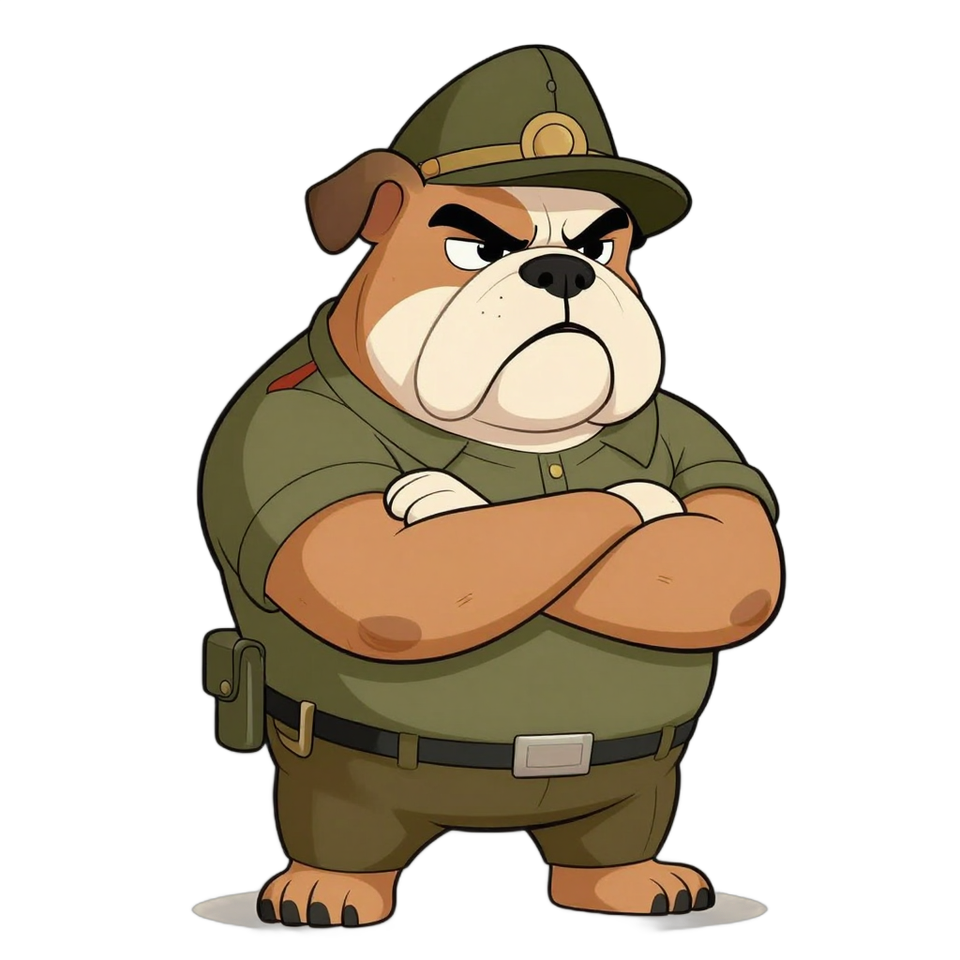
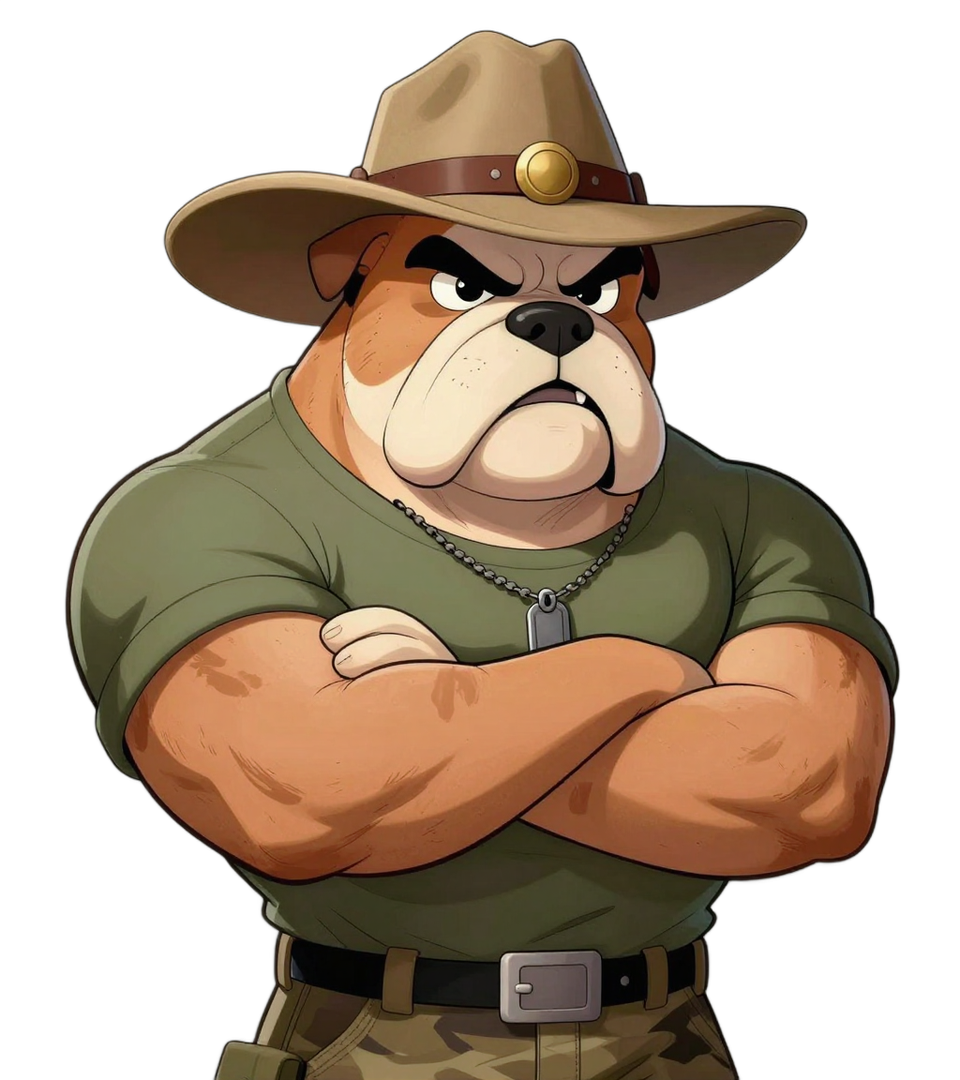
feat: final Tank, seven drills and a fuller scoreboard
Tank is now the detailed render: campaign hat, dog tags, cel shading.
The favicon, docs logo and social card are built from it by
scripts/make-assets.py. The home page and docs list merging and
issues-and-roadmap as built, and the scoreboard shows each skill's
latest eval run. Also fixes the docs home title reading "GitHard docs |
GitHard docs", stops grid children widening the page on phones, and
keeps the Docs link in the mobile nav.

diff --git a/www/index.html b/www/index.html
@@ -22,8 +22,8 @@
       <a href="#montage">The montage</a>
       <a href="#scoreboard">Scoreboard</a>
       <a href="#drills">Drills</a>
-      <a href="https://docs.githard.dev">Docs</a>
-      <a class="gh" href="https://github.com/getgithard/githard">GitHub</a>
+      <a class="keep" href="https://docs.githard.dev">Docs</a>
+      <a class="keep" href="https://github.com/getgithard/githard">GitHub</a>
     </nav>
   </div>
 </header>
@@ -40,7 +40,7 @@
       </div>
     </div>
     <figure class="tank">
-      <img src="img/tank.png" width="960" height="1080" alt="Tank, a muscular cartoon bulldog in a drill-sergeant hat, arms crossed and scowling.">
+      <img src="img/tank.png" width="960" height="1080" alt="Tank, a muscular cartoon bulldog in a drill-sergeant hat and dog tags, arms crossed and scowling.">
       <figcaption class="bubble">Pinned to a tag? That's not a pin, soldier. That's a wish.</figcaption>
     </figure>
   </div>
@@ -82,12 +82,12 @@
       <article class="drill"><h3>fork-pr-safety</h3><p>Reads a stranger's full diff before their CI runs, and approves only the commit it read. Never pushes to their branch.</p></article>
       <article class="drill"><h3>contributors</h3><p>A welcome for every claim, a reply for every outside PR, a person (not a stale bot) for the quiet ones, and an AI policy.</p></article>
       <article class="drill"><h3>writing</h3><p>READMEs, release notes and replies that sound like a person wrote them. Uses your project's style guide if you have one.</p></article>
+      <article class="drill"><h3>merging</h3><p>Merges when the required checks pass on the commit that was tested, reruns download flakes, and takes PRs one at a time.</p></article>
+      <article class="drill"><h3>issues-and-roadmap</h3><p>Milestones, a sized board, and starter issues that name the files, the test and "done when".</p></article>
       <article class="drill"><h3>using-githard</h3><p>The front door. Sends your request to the right drill, and tells you straight when that drill isn't built yet.</p></article>
     </div>
     <h3 class="split-head">Still in training</h3>
     <div class="drills">
-      <article class="drill training"><h3>issues-and-roadmap</h3><p>Milestones, a board, and starter issues people actually finish.</p></article>
-      <article class="drill training"><h3>merging</h3><p>Merge when green, one at a time, without burning the API limit.</p></article>
       <article class="drill training"><h3>releases</h3><p>Cut, verify and publish, then everything a release leaves behind.</p></article>
       <article class="drill training"><h3>docs-honesty</h3><p>Docs that only say what shipped.</p></article>
       <article class="drill training"><h3>security-baseline</h3><p>OpenSSF Scorecard, secrets, signed releases.</p></article>
@@ -116,7 +116,7 @@
   <div class="wrap">
     <div>
       <h2 id="status-title">Shipping before the new year.</h2>
-      <p>GitHard isn't released yet, so there's nothing to install today. Five drills are built and passing their evals, eight are in training. Star the repo and you'll see the first release land.</p>
+      <p>GitHard isn't released yet, so there's nothing to install today. Seven drills are built and passing their evals, six are in training. Star the repo and you'll see the first release land.</p>
     </div>
     <a class="btn go" href="https://github.com/getgithard/githard">Star it on GitHub</a>
   </div>

diff --git a/www/styles.css b/www/styles.css
@@ -117,10 +117,13 @@ footer .wrap { display: flex; flex-wrap: wrap; justify-content: space-between; g
   .bubble { left: 0; top: 0; }
   .days { flex-direction: row; }
   .day { flex: 1; }
-  .top nav a:not(.gh) { display: none; }
+  .top nav a:not(.keep) { display: none; }
   section { padding: 64px 0; }
 }
 @media (prefers-reduced-motion: no-preference) {
   .terminal pre.typing span { animation: land .18s ease-out both; animation-delay: calc(var(--i) * 45ms); }
   @keyframes land { from { opacity: 0; transform: translateX(-6px); } }
 }
+
+/* Grid children default to min-width: auto, so the terminal's long lines would widen the whole page on phones. */
+.hero .wrap > *, .montage > *, .status .wrap > * { min-width: 0; }

diff --git a/scripts/make-assets.py b/scripts/make-assets.py
@@ -38,15 +38,20 @@ icon.resize((64, 64), Image.LANCZOS).save(out / "favicon.png", optimize=True)
 
 social = Image.new("RGBA", (1200, 630), BARRACKS + (255,))
 d = ImageDraw.Draw(social)
-stencil = ImageFont.truetype(str(site / "www/fonts/stencil.woff2"), 96); stencil.set_variation_by_axes([800])
+stencil = ImageFont.truetype(str(site / "www/fonts/stencil.woff2"), 84); stencil.set_variation_by_axes([800])
 body = ImageFont.truetype(str(site / "www/fonts/archivo.woff2"), 34); body.set_variation_by_axes([500])
 d.text((64, 150), "Your repo's been", font=stencil, fill=(230, 220, 195))
-d.text((64, 250), "soft long enough.", font=stencil, fill=SAND)
+d.text((64, 238), "soft long enough.", font=stencil, fill=SAND)
 d.text((64, 400), "GitHard: boot camp for your GitHub repos.", font=body, fill=(169, 159, 136))
 d.text((64, 450), "githard.dev", font=body, fill=(230, 220, 195))
-s = full.copy(); s.thumbnail((520, 600), Image.LANCZOS)
+s = full.copy(); s.thumbnail((470, 600), Image.LANCZOS)
 shadow = Image.new("RGBA", s.size, (0, 0, 0, 0)); shadow.putalpha(s.getchannel("A").point(lambda a: a * .5))
 social.alpha_composite(shadow.filter(ImageFilter.GaussianBlur(18)), (1200 - s.width - 30, 630 - s.height + 20))
 social.alpha_composite(s, (1200 - s.width - 40, 630 - s.height))
 social.convert("RGB").save(out / "social.png", optimize=True)
 print("wrote", *sorted(p.name for p in out.iterdir()))
+
+gh = Image.new("RGB", (1280, 640), BARRACKS)   # GitHub's social preview size
+gh.paste(social.convert("RGB"), (40, 5))
+gh.save(out / "github-social.png", optimize=True)
+print("wrote github-social.png")

diff --git a/docs/src/content/docs/skills/issues-and-roadmap.md b/docs/src/content/docs/skills/issues-and-roadmap.md
@@ -1,0 +1,39 @@
+---
+title: issues-and-roadmap
+description: A roadmap people can see, and issues a stranger can finish.
+sidebar:
+  order: 6
+---
+
+An issue that says "improve search" sits there until you do it yourself. One that names the file, the test and what "done" looks like gets claimed. `issues-and-roadmap` keeps your roadmap visible and every issue ready to pick up.
+
+## What every issue gets
+
+A type (Bug, Feature or Task), a milestone, a card on the project board with a size (XS to L), and a "Done when" list. A PR that closes it says `Fixes #N`.
+
+Big issues become a parent with sub-issues, and blockers are linked with GitHub's issue dependencies. GitHard uses the REST API for both:
+
+```sh
+# make #13 a sub-issue of #9 (the id is the issue's API id, not its number)
+gh api -X POST repos/OWNER/REPO/issues/9/sub_issues -F sub_issue_id=$(gh api repos/OWNER/REPO/issues/13 --jq .id)
+
+# mark #12 as blocked by #9
+gh api -X POST repos/OWNER/REPO/issues/12/dependencies/blocked_by -F issue_id=$(gh api repos/OWNER/REPO/issues/9 --jq .id)
+```
+
+## Starter issues
+
+Each one names the files to change, says how to test, lists "Done when", and says which files to stay out of. GitHard keeps about ten of them open and unassigned, so nobody who turns up has to wait for work. Docs issues get a `writers wanted` label, and they say plainly that the work is volunteer.
+
+## Checking a repo
+
+```sh
+bash ~/githard/skills/issues-and-roadmap/issue-health.sh OWNER/REPO
+```
+
+```
+needs    #41 improve search  (no type, no "Done when")
+pool     6 ready to pick up, target 10: scope 4 more
+```
+
+It exits `1` when there's work to do, and `2` when GitHub didn't answer.

diff --git a/docs/src/content/docs/skills/merging.md b/docs/src/content/docs/skills/merging.md
@@ -1,0 +1,32 @@
+---
+title: merging
+description: Merge when green, on the commit that was tested, one PR at a time.
+sidebar:
+  order: 7
+---
+
+Merging by hand means watching checks. Merging with a careless loop means merging something that isn't green, or burning your API limit until every tool you have goes blind. `merging` does it one PR at a time, on the commit that passed.
+
+## One PR
+
+```sh
+bash ~/githard/skills/merging/merge-when-green.sh OWNER/REPO 41
+```
+
+```
+#41: green on 741f378, merging
+```
+
+- It reads the required checks from your ruleset. Nothing's hard-coded.
+- It merges with `--match-head-commit`, so a push that lands after the checks pass can't slip in.
+- When a check fails, it reads the log. A download flake (a 5xx, a timeout, a reset) gets the failed jobs rerun, twice at most. Anything else stops it.
+- An empty answer from GitHub means "ask again", never "done".
+- It won't touch a PR from a fork. Review that with [fork-pr-safety](/skills/fork-pr-safety/) and merge it by hand.
+
+## Several PRs
+
+```sh
+bash ~/githard/skills/merging/merge-queue.sh OWNER/REPO 41 42 43
+```
+
+One runner, one PR at a time. GitHub allows 5,000 API requests an hour, shared by every tool on your token, so parallel merge loops starve each other. Both scripts wait when fewer than 200 are left.

diff --git a/docs/src/content/docs/getting-started.md b/docs/src/content/docs/getting-started.md
@@ -24,5 +24,7 @@ GitHard isn't released yet. The first release, `v0.1.0`, is planned before the n
 | [`fork-pr-safety`](/skills/fork-pr-safety/) | PRs from forks, before their CI runs. |
 | [`contributors`](/skills/contributors/) | Claims, replies, quiet PRs, reactions, an AI policy. |
 | [`writing`](/skills/writing/) | READMEs, docs, release notes and replies in a human voice. |
+| [`issues-and-roadmap`](/skills/issues-and-roadmap/) | Milestones, a board, and issues a newcomer can finish. |
+| [`merging`](/skills/merging/) | Merge when green, one PR at a time. |
 
-Eight more are planned: issues and roadmap, merging, releases, docs honesty, security baseline, org setup, growth and save point.
+Six more are planned: releases, docs honesty, security baseline, org setup, growth and save point.
